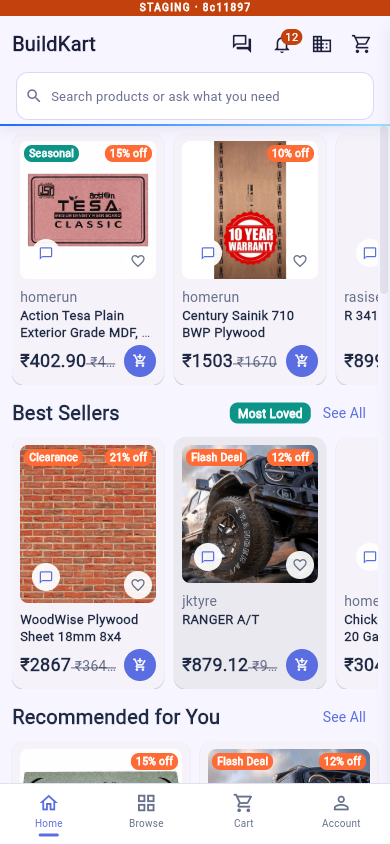
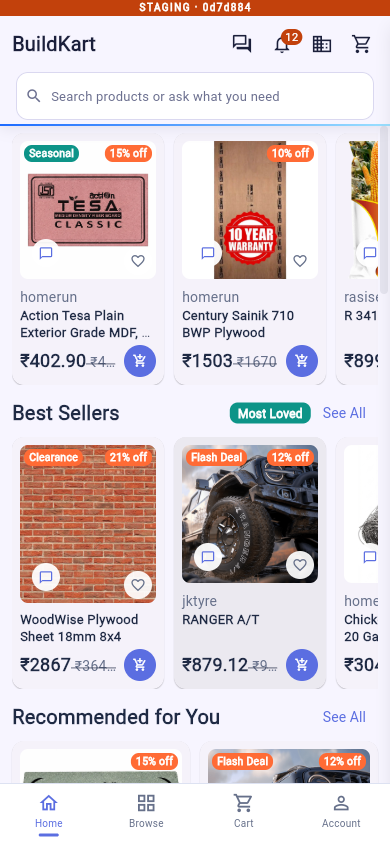
docs(workspace): align evidence with final staging release

diff --git a/client-projects/client101/evidence/CHG-072/conversation-and-cart.md b/client-projects/client101/evidence/CHG-072/conversation-and-cart.md
@@ -1,10 +1,10 @@
-# CHG-072 — conversation layer and cart build
+# CHG-072 â€” conversation layer and cart build
 
 **Environment:** staging only
 
 **Production:** unauthorized
 
-**Status:** Phases A–F complete and staging-verified. Phase E was explicitly authorized on
+**Status:** Phases Aâ€“F complete and staging-verified. Phase E was explicitly authorized on
 2026-10-21 and implements the revalidated, acknowledged cart handoff. Human visual review is still
 pending. Production remains unauthorized.
 
@@ -21,7 +21,7 @@ Conversation becomes a layer over the existing pages in both channels:
 Building the cart is deliberately separate. Phase E implements it as an explicit revalidated
 handoff; chat itself still never changes the cart.
 
-## Phase A — governance
+## Phase A â€” governance
 
 Completed:
 
@@ -49,7 +49,7 @@ Completed:
 - No deployment.
 - No Phase 3 revalidation or cart handoff.
 
-## Phase B — household schema
+## Phase B â€” household schema
 
 Applied to the staging `buildkart_workspace` database on 2026-10-20. All statements are idempotent
 and re-run by `ensureSchema()` on every service boot.
@@ -91,7 +91,7 @@ No B2B row was rewritten, and no household row was left behind by the rolled-bac
 - No commerce or cart write.
 - No cart handoff.
 
-## Phase C — household API
+## Phase C â€” household API
 
 Deployed as workspace and Experience API commit `e7e84ba` from
 `/opt/buildkart-releases/release-e7e84ba`; `current` now points there.
@@ -150,7 +150,7 @@ fixture draft to v14 as designed; no schema, ownership or commerce state changed
 - No commerce or cart write.
 - No cart handoff.
 
-## Phase D — conversation layer
+## Phase D â€” conversation layer
 
 Completed and deployed on 2026-10-20 as commit `68ee397`. No commerce or cart write was added.
 
@@ -202,7 +202,7 @@ Completed and deployed on 2026-10-20 as commit `68ee397`. No commerce or cart wr
 | `flutter analyze` | **pass**, no issues |
 | `flutter test` (app) | **pass**, 260 tests, including dock, hidden-launcher and participant tests |
 | `flutter test` (`agency_flutter_ui`) | **pass**, 53 tests, 27 skipped golden captures |
-| Tests at 390×844 and 360×800 | **pass**; dock opens, page state survives, no overflow exception |
+| Tests at 390Ã—844 and 360Ã—800 | **pass**; dock opens, page state survives, no overflow exception |
 | Participant capture test | **pass**: chat share, empty aggregate, `add_line` proposal at v0, zero owner accepts |
 | Undo capture guard | **pass**: a stale clear request cannot drop a newer capture |
 | B2B quick-order separation | **pass**: Discuss fires without firing Add; 44dp semantic target |
@@ -213,13 +213,13 @@ Completed and deployed on 2026-10-20 as commit `68ee397`. No commerce or cart wr
 | Workspace household smoke | **pass** on the deployed release |
 | Workspace B2B smoke | **pass**; tenant isolation, proposal and approval rules unchanged |
 | Staging deployment | **complete** (release `68ee397`) |
-| Chrome acceptance | **pass 89/89** at 390×844 and 360×800, no console errors |
+| Chrome acceptance | **pass 89/89** at 390Ã—844 and 360Ã—800, no console errors |
 | Cart write / order creation | **none** |
 
 ### Chrome acceptance
 
 Method: headless Google Chrome via Playwright 1.64 with the Flutter accessibility tree enabled,
-real OTP sign-in on staging, at 390×844 and 360×800.
+real OTP sign-in on staging, at 390Ã—844 and 360Ã—800.
 
 | Surface | B2C | B2B |
 |---|---|---|
@@ -232,10 +232,10 @@ real OTP sign-in on staging, at 390×844 and 360×800.
 | Overflow | none in the Flutter surface | none in the Flutter surface |
 | Console errors | none | none |
 
-Screenshots: `evidence/CHG-072/screenshots/` — B2C home and dock at 390×844, B2C cart at 360×800,
-B2B dock at 360×800, B2B cart at 390×844.
+Screenshots: `evidence/CHG-072/screenshots/` â€” B2C home and dock at 390Ã—844, B2C cart at 360Ã—800,
+B2B dock at 360Ã—800, B2B cart at 390Ã—844.
 
-## Phase E — revalidated cart handoff
+## Phase E â€” revalidated cart handoff
 
 Authorized by the human requester on 2026-10-21. Implemented in the Flutter handoff with the
 existing Commerce/Experience API, not by giving chat a write path.
@@ -260,12 +260,12 @@ existing Commerce/Experience API, not by giving chat a write path.
 
 | Item | Value |
 |---|---|
-| Workspace release | `/opt/buildkart-releases/release-24be9ca`; `current` points there |
-| Frontend | `https://buildkart-staging.web.app`, commit/build `8c11897` |
+| Workspace release | `/opt/buildkart-releases/release-0d7d884`; `current` points there |
+| Frontend | `https://buildkart-staging.web.app`, commit/build `0d7d884` |
 | Workspace B2B smoke | **pass** (tenant isolation, proposals, approvals) |
 | Household smoke | **pass**, including assistant thread and mention |
 | B2C Chrome | cart review showed 3 current lines; add produced cart count 3; repeated add stayed at 3 |
-| B2B Chrome | unapproved revision showed “Approval is not current” and disabled action; after approver approval, 4 lines added to the quotation cart with GST 18% |
+| B2B Chrome | unapproved revision showed â€œApproval is not currentâ€ and disabled action; after approver approval, 4 lines added to the quotation cart with GST 18% |
 | Order creation | **none** |
 | Production authorized | **No** |
 
@@ -277,7 +277,7 @@ existing Commerce/Experience API, not by giving chat a write path.
 | C | Consumer actor path, invitation endpoints, owner-only redaction, participant proposal rules | **Complete** |
 | D | Conversation dock, Discuss capture on five surfaces, B2C project and invite UI, shared list | **Complete; Chrome accepted; human review pending** |
 | E | Revalidation, difference preview, acknowledged cart build, idempotency | **Complete and staging-verified under explicit authorization** |
-| F | Staging verification, isolation tests, Chrome 390×844 and 360×800 | **Complete for the delivered scope** |
+| F | Staging verification, isolation tests, Chrome 390Ã—844 and 360Ã—800 | **Complete for the delivered scope** |
 
 ## Open privacy decisions
 
@@ -286,3 +286,4 @@ existing Commerce/Experience API, not by giving chat a write path.
 - Retention of household conversation content and shared lists.
 - Operator support visibility and redaction for household projects.
 - Terms and privacy copy for inviting a third party into a purchase conversation.
+

diff --git a/client-projects/client101/evidence/CHG-073/conversation-refinements.md b/client-projects/client101/evidence/CHG-073/conversation-refinements.md
@@ -1,11 +1,11 @@
-# CHG-073 — conversation refinements and cart assistant
+# CHG-073 â€” conversation refinements and cart assistant
 
 **Environment:** staging only
 
 **Production:** unauthorized
 
 **Status:** Phases A, B and C complete and deployed to staging. The assistant is a deterministic,
-read-only participant. The explicit shared-list → cart handoff is delivered under CHG-072 Phase E;
+read-only participant. The explicit shared-list â†’ cart handoff is delivered under CHG-072 Phase E;
 the assistant has no write path. Production remains unauthorized.
 
 ## Implemented in Phase A
@@ -13,7 +13,7 @@ the assistant has no write path. Production remains unauthorized.
 ### Discuss icon
 
 - Icon-only on catalogue tiles, compact cards and search results.
-- 44dp hit target with a 26–28dp visual circle aligned to the wishlist control.
+- 44dp hit target with a 26â€“28dp visual circle aligned to the wishlist control.
 - Accessible `Discuss` label and a long-press hint.
 - PDP and cart-line actions remain labelled `Discuss`.
 
@@ -36,12 +36,12 @@ the assistant has no write path. Production remains unauthorized.
 - Duplicate variants are not added twice.
 - No cart or order write.
 
-### Assistant design and implementation (Phases B–C)
+### Assistant design and implementation (Phases Bâ€“C)
 
 `ADR-client101-013` records the accepted design and the Phase C implementation: a deterministic,
 on-platform **automated assistant with human escalation**.
 
-- Distinct, labelled participant — every reply says `Automated · BuildKart Cart Assistant`.
+- Distinct, labelled participant â€” every reply says `Automated Â· BuildKart Cart Assistant`.
 - One assistant channel per workspace, visible to active members.
 - Mentionable with `@assistant` in the human thread; also messageable in its own thread.
 - The assistant replies to:
@@ -56,7 +56,7 @@ on-platform **automated assistant with human escalation**.
 - Each reply writes a normal workspace message from actor `assistant_cart` plus an
   `activity_event` audit record.
 
-### Shared-list → cart handoff (CHG-072 Phase E)
+### Shared-list â†’ cart handoff (CHG-072 Phase E)
 
 - `Review before cart build` re-reads the current Commerce offer for each accepted line.
 - Differences detected: price, seller, currency, stock, original offer availability and MOQ.
@@ -72,8 +72,8 @@ on-platform **automated assistant with human escalation**.
 
 ### Home merchandising repair
 
-Staging’s Flash Deals and Recommended collections resolve empty while Best Sellers has one product.
-The published sections were therefore being dropped. `homeModulesProvider` now keeps the operator’s
+Stagingâ€™s Flash Deals and Recommended collections resolve empty while Best Sellers has one product.
+The published sections were therefore being dropped. `homeModulesProvider` now keeps the operatorâ€™s
 section title, order and placement and fills the rail from the governed deterministic catalogue,
 without duplicating server products. Flash Deals, Best Sellers and Recommended for You all render.
 
@@ -86,7 +86,7 @@ without duplicating server products. Flash Deals, Best Sellers and Recommended f
 | `flutter test` (`agency_flutter_ui`) | **pass** (unchanged), 54 tests, 27 skipped golden captures |
 | Golden snapshots | refreshed; reviewed the icon/header changes |
 | `flutter build web --release` (staging defines) | **pass** |
-| Chrome 390×844 and 360×800 | **pass** for home, dock, assistant and cart review |
+| Chrome 390Ã—844 and 360Ã—800 | **pass** for home, dock, assistant and cart review |
 | Console errors | none |
 | Header entry beside the bell | pass in both channels |
 | In-chat product picker | pass; product added from Chat at both sizes |
@@ -95,20 +95,20 @@ without duplicating server products. Flash Deals, Best Sellers and Recommended f
 | Cart review | pass; current price/stock/seller/MOQ shown |
 | Cart additions | B2C cart 3 lines; B2B quotation cart 4 lines after approval |
 | Idempotent retry | repeated builds leave the same line count |
-| B2B approval gate | pass; unapproved revision showed “Approval is not current” and a disabled action |
+| B2B approval gate | pass; unapproved revision showed â€œApproval is not currentâ€ and a disabled action |
 | Home merchandising | Flash Deals, Best Sellers and Recommended for You all render |
 | Commerce write / order creation | none beyond the authorized cart handoff; no order |
-| Workspace smoke (backend) | **pass** on `release-24be9ca` |
-| Household smoke (backend) | **pass** on `release-24be9ca`, includes assistant thread + mention |
+| Workspace smoke (backend) | **pass** on `release-0d7d884` |
+| Household smoke (backend) | **pass** on `release-0d7d884`, includes assistant thread + mention |
 
-Screenshots: `evidence/CHG-073/screenshots/` — home rails, 360 dock, assistant thread/reply, cart review and cart page, plus B2B assistant/review/cart. The handoff screenshots are also linked from CHG-072 evidence.
+Screenshots: `evidence/CHG-073/screenshots/` â€” home rails, 360 dock, assistant thread/reply, cart review and cart page, plus B2B assistant/review/cart. The handoff screenshots are also linked from CHG-072 evidence.
 
 ## Deployment
 
 | Item | Value |
 |---|---|
-| Frontend | `https://buildkart-staging.web.app`, commit `8c11897`, build `8c11897` |
-| Workspace service | `/opt/buildkart-releases/release-24be9ca`; `current` points there |
+| Frontend | `https://buildkart-staging.web.app`, commit `0d7d884`, build `0d7d884` |
+| Workspace service | `/opt/buildkart-releases/release-0d7d884`; `current` points there |
 | Workspace schema | assistant kind + lazily ensured assistant channel; re-applied on boot |
 | User-created household project | `x` retained; not test data |
 | Arjun fixture draft | v22, approval current after the final Chrome check |
@@ -139,8 +139,9 @@ Screenshots: `evidence/CHG-073/screenshots/` — home rails, 360 dock, assistant
 | Item | Value |
 |---|---|
 | Approval required | Yes |
-| Approved scope | Phases A–C (deterministic assistant) |
+| Approved scope | Phases Aâ€“C (deterministic assistant) |
 | Approved by | human-requester |
 | Approved at | 2026-10-21 |
 | Phase C assistant implementation | **Authorized and staging-verified** |
 | Production authorized | No |
+
